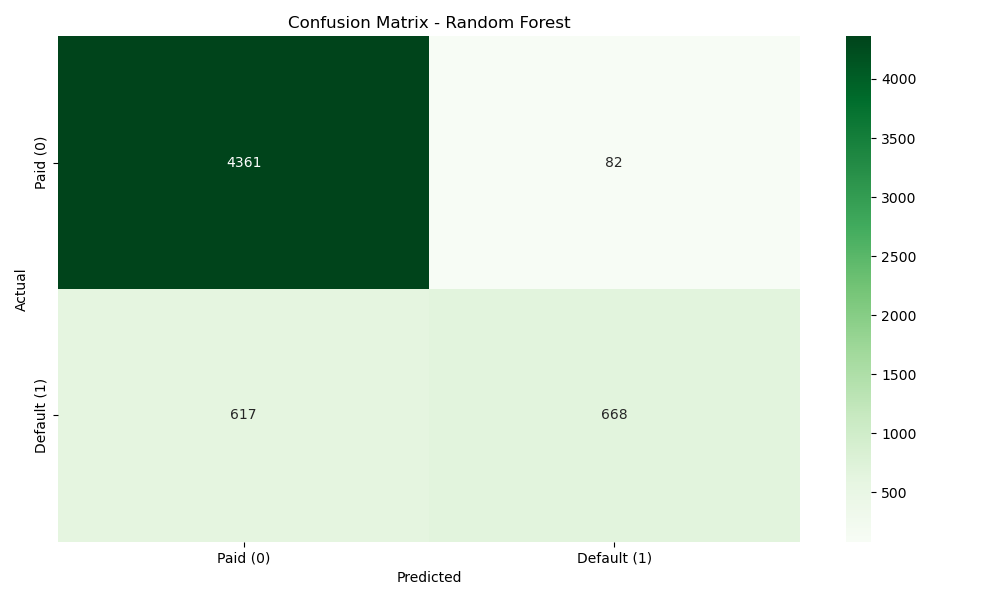
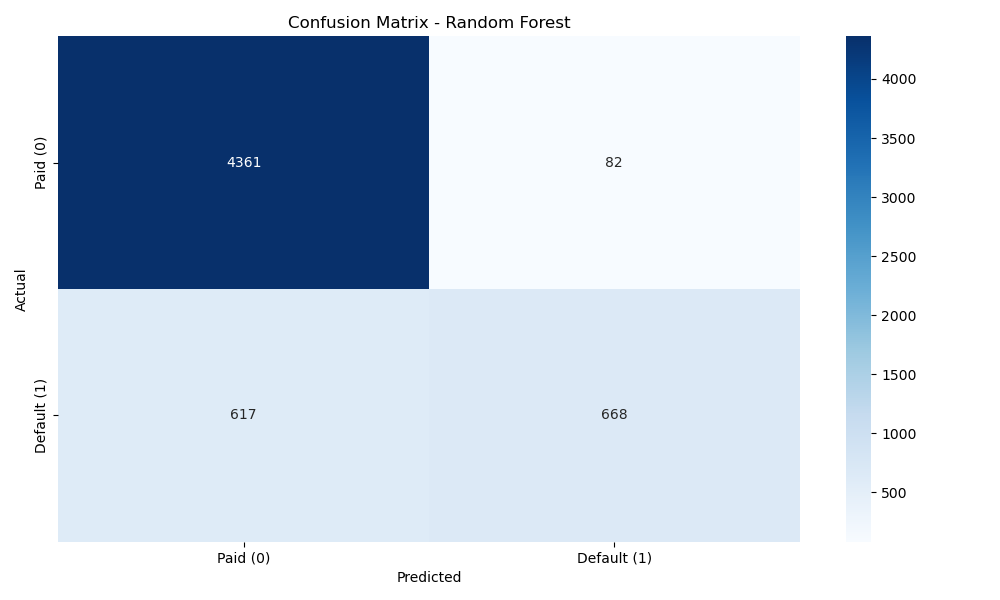
xgboost done

diff --git a/ml_files/xg_boost.py b/ml_files/xg_boost.py
@@ -110,14 +110,81 @@ def train_evaluate_model(X, y):
 
     return X_full_processed, y, model, y_test, y_pred_test, y_pred_test_probability, perm_importance_df
 
+def cross_validation(X_full_processed, y, model):
+    """Running 5-fold CV to verify model performance"""
+    accuracy_score = cross_val_score(model, X_full_processed, y, cv = 5, scoring = 'accuracy')
+    precision_score = cross_val_score(model, X_full_processed, y, cv = 5, scoring = 'precision')
+    recall_score = cross_val_score(model, X_full_processed, y, cv = 5, scoring = 'recall')
+    roc_auc_score = cross_val_score(model, X_full_processed, y, cv = 5, scoring = 'roc_auc')
+
+    print(f"\nCV Accuracy: {accuracy_score.mean():.4f} (+/- {accuracy_score.std():.4f})")
+    print(f"CV Precision: {precision_score.mean():.4f} (+/- {precision_score.std():.4f})")
+    print(f"CV Recall: {recall_score.mean():.4f} (+/- {recall_score.std():.4f})")
+    print(f"CV AUC-ROC: {roc_auc_score.mean():.4f} (+/- {roc_auc_score.std():.4f})")
+
+def confusion_matrix_plot(y_test, y_pred_test):
+    """Plotting confusion matrix heatmap"""
+    cm = confusion_matrix(y_test, y_pred_test)
+    plt.figure(figsize = (10, 6))
+    sns.heatmap(cm, annot = True, fmt = 'd', cmap = 'Oranges', 
+                xticklabels = ['Paid (0)', 'Default (1)'],
+                yticklabels = ['Paid (0)', 'Default (1)'])
+
+    plt.title('Confusion Matrix - XGBoost')
+    plt.xlabel('Predicted')
+    plt.ylabel('Actual')
+
+    plt.tight_layout()
+    # plt.savefig('Confusion_Matrix.png')
+    plt.show()
+
+def roc_curve_plot(y_test, y_pred_test_probability):
+    """Plotting the ROC Curve"""
+    # false positive rate, true positive rate
+    fpr, tpr, thresholds = roc_curve(y_test, y_pred_test_probability)
+    
+    # area under the curve
+    auc = roc_auc_score(y_test, y_pred_test_probability)
+
+    plt.figure(figsize = (10, 6))
+
+    plt.plot(fpr, tpr, color = 'orange', lw = 2, label = f'ROC CURVE (AUC = {auc:.4f})')
+    plt.plot([0,1], [0,1], color = 'gray', linestyle = '--', label = 'Random Guess')
+
+    plt.xlabel('False Positive Rate')
+    plt.ylabel('True Positive Rate')
+    plt.title('ROC Curve -  XGBoost')
+
+    plt.legend(loc = 'lower right')
+    plt.tight_layout()
+    # plt.savefig('ROC_Curve.png')
+    plt.show()
+
+def feature_importance_plot(perm_importance_df):
+    """Using a bar chart to plot the feature importance"""
+    sorted = perm_importance_df.sort_values('Importance', ascending = True)
+
+    plt.figure(figsize = (10, 6))
+    plt.barh(sorted['Feature'], sorted['Importance'], color = 'orange')
+
+    plt.xlabel('Importance')
+    plt.ylabel('Feature')
+    plt.yticks(fontsize = 7)
+    plt.title('Feature Importance')
+    plt.tight_layout()
+    # plt.savefig('Feature_Importance.png')
+    plt.show()
 def main():
     data = get_data()
     print(data.head())
 
     X, y = data_prep(data)
     X_full_processed, y, model, y_test, y_pred_test, y_pred_test_probability, perm_importance_df = train_evaluate_model(X,y)
+    cross_validation(X_full_processed, y, model)
+    confusion_matrix_plot(y_test, y_pred_test)
+    roc_curve_plot(y_test, y_pred_test_probability)
+    feature_importance_plot(perm_importance_df)
 
-    
 
 if __name__ == "__main__":
     main()

diff --git a/ml_files/random_forest.py b/ml_files/random_forest.py
@@ -85,7 +85,7 @@ def train_evaluate_model(X, y):
 
     y_pred_test = model.predict(X_test_processed)
     y_pred_test_probability = model.predict_proba(X_test_processed)[:,1]
-    
+
     print(f"\nAccuracy: {accuracy_score(y_test, y_pred_test):.4f}")
     print(f"Precision: {precision_score(y_test, y_pred_test):.4f}")
     print(f"Recall: {recall_score(y_test, y_pred_test):.4f}")
@@ -127,7 +127,7 @@ def confusion_matrix_plot(y_test, y_pred_test):
     cm = confusion_matrix(y_test, y_pred_test)
 
     plt.figure(figsize = (10, 6))
-    sns.heatmap(cm, annot = True, fmt = 'd', cmap = 'Greens', 
+    sns.heatmap(cm, annot = True, fmt = 'd', cmap = 'Blues', 
                 xticklabels = ['Paid (0)', 'Default (1)'],
                 yticklabels = ['Paid (0)', 'Default (1)'])
 
@@ -136,7 +136,7 @@ def confusion_matrix_plot(y_test, y_pred_test):
     plt.ylabel('Actual')
 
     plt.tight_layout()
-    # plt.savefig('Confusion_Matrix.png')
+    plt.savefig('Confusion_Matrix.png')
     plt.show()
 
 def roc_curve_plot(y_test, y_pred_test_probability):

diff --git a/ml_files/logistic_reg.py b/ml_files/logistic_reg.py
@@ -149,7 +149,7 @@ def roc_curve_plot(y_test, y_pred_probability):
     auc = roc_auc_score(y_test, y_pred_probability)
 
     plt.figure(figsize = (10, 6))
-    plt.plot(fpr, tpr, color = 'blue', linewidth = 2, label = f"ROC Curve (AUC = {auc:.4f})")
+    plt.plot(fpr, tpr, color = 'green', linewidth = 2, label = f"ROC Curve (AUC = {auc:.4f})")
     plt.plot([0,1], [0,1], color = 'gray', linestyle = '--', label = 'Random Guess')
 
     plt.xlabel('False Positive Rate')
@@ -158,7 +158,7 @@ def roc_curve_plot(y_test, y_pred_probability):
 
     plt.legend(loc = 'lower right')
     plt.tight_layout()
-    #plt.savefig('ROC_Curve.png')
+    # plt.savefig('ROC_Curve.png')
     plt.show()
 
 def feature_importance_plot(coef_df):
